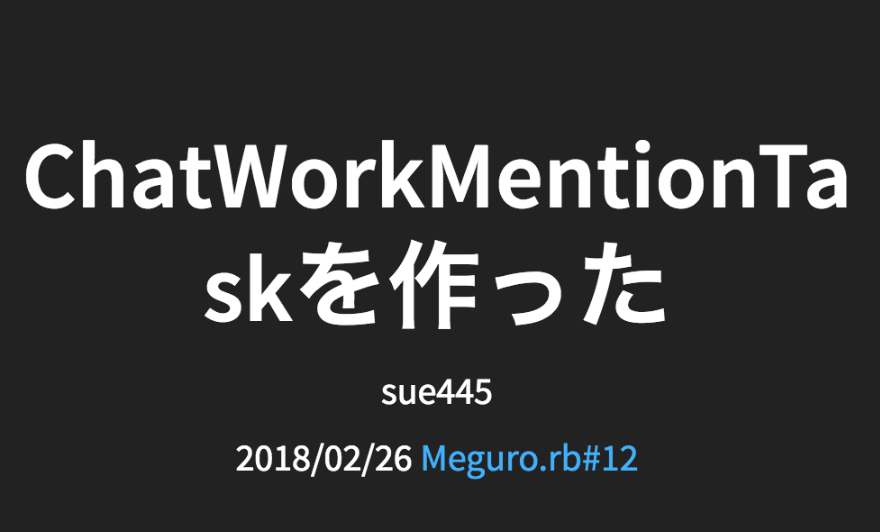
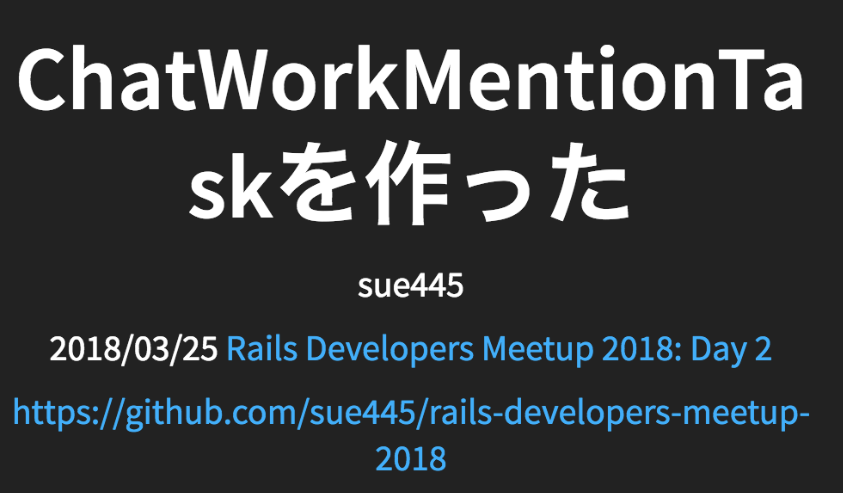
Update info and slide

Changed region(s): [[0.0, 0.0913, 0.987, 0.6389], [0.0, 0.7911, 0.9561, 0.9736], [0.0617, 0.6694, 0.9253, 0.7606]]

diff --git a/docs/index.html b/docs/index.html
@@ -3,7 +3,7 @@
   <head prefix="og: http://ogp.me/ns# fb: http://ogp.me/ns/fb# article: http://ogp.me/ns/article#">
     <meta charset="utf-8">
 
-<title>ChatWorkMentionTaskを作った #megurorb</title>
+<title>ChatWorkMentionTaskを作った #railsdm #rdm2018A</title>
 
 <meta name="description" content="">
 <meta name="author" content="sue445">
@@ -11,17 +11,17 @@
 
 <meta property="og:locale" content="ja_JP" />
 <meta property="og:type" content="website" />
-<meta property="og:title" content="ChatWorkMentionTaskを作った #megurorb" />
-<meta property="og:description" content="Meguro.rb#12 2018/02/26(Mon.) の発表資料です" />
-<meta property="og:url" content="https://sue445.github.io/megurorb-12/#/" />
-<meta property="og:image" content="https://sue445.github.io/megurorb-12/images/cover.png" />
+<meta property="og:title" content="ChatWorkMentionTaskを作った #railsdm #rdm2018A" />
+<meta property="og:description" content="Rails Developers Meetup 2018: Day 2の発表資料です" />
+<meta property="og:url" content="https://sue445.github.io/rails-developers-meetup-2018/#/" />
+<meta property="og:image" content="https://sue445.github.io/rails-developers-meetup-2018/images/cover.png" />
 
 <meta name="twitter:card" content="Summary" />
 <meta name="twitter:site" content="@sue445" />
 <meta name="twitter:creator" content="@sue445" />
-<meta name="twitter:title" content="ChatWorkMentionTaskを作った #megurorb" />
-<meta name="twitter:description" content="Meguro.rb#12 2018/02/26(Mon.) の発表資料です" />
-<meta name="twitter:image" content="https://sue445.github.io/megurorb-12/images/cover.png" />
+<meta name="twitter:title" content="ChatWorkMentionTaskを作った #railsdm #rdm2018A" />
+<meta name="twitter:description" content="Rails Developers Meetup 2018: Day 2の発表資料です" />
+<meta name="twitter:image" content="https://sue445.github.io/rails-developers-meetup-2018/images/cover.png" />
 
 <meta name="apple-mobile-web-app-capable" content="yes" />
 <meta name="apple-mobile-web-app-status-bar-style" content="black-translucent" />
@@ -62,9 +62,9 @@
 <h1>ChatWorkMentionTaskを作った</h1>
 <p>sue445</p>
 
-<p>2018/02/26 <a href="https://megurorb.connpass.com/event/78332/">Meguro.rb#12</a></p>
+<p>2018/03/25 <a href="https://techplay.jp/event/655769">Rails Developers Meetup 2018: Day 2</a></p>
 
-<p><a href="https://github.com/sue445/megurorb-12">https://github.com/sue445/megurorb-12</a></p>
+<p><a href="https://github.com/sue445/rails-developers-meetup-2018">https://github.com/sue445/rails-developers-meetup-2018</a></p>
 
 </section>
 <section>
@@ -113,7 +113,7 @@
 
 <h3>所感</h3>
 <ul>
-  <li>半月くらい人柱運用してるけど日々の仕事がむっちゃ捗ってる！！！</li>
+  <li>1ヶ月くらい人柱運用してるけど日々の仕事がむっちゃ捗ってる！！！</li>
   <li>ぶっちゃげChatWork本体に欲しい機能なんだが、<a href="http://feedback-ja.chatwork.com/forums/269086-chatwork-%E3%81%94%E6%84%8F%E8%A6%8B-%E3%81%94%E8%A6%81%E6%9C%9B%E3%83%95%E3%82%A9%E3%83%BC%E3%83%A9%E3%83%A0/suggestions/7575039-to%E4%B8%80%E8%A6%A7%E6%A9%9F%E8%83%BD">3年前から要望は出ている</a> がいまだに実装されていないので諦めて自分で作った</li>
 </ul>
 
@@ -126,7 +126,7 @@
   <li>ChatWork以外はいつものやつ
     <ul>
       <li>Ruby 2.5.0</li>
-      <li>Rails 5.2.0.rc1</li>
+      <li>Rails 5.2.0.rc2</li>
       <li>Bootstrap 4.0.0</li>
       <li>ChatWork (API, OAuth, Webhook)</li>
     </ul>
@@ -164,6 +164,13 @@
 <p><img src="images/commit_ec3e2583044e2c132ef1de9ef0c656f1e74dcac1.png" alt="commit_ec3e2583044e2c132ef1de9ef0c656f1e74dcac1"></p>
 
 <p><a href="https://github.com/sue445/chatwork_mention_task/commit/ec3e2583044e2c132ef1de9ef0c656f1e74dcac1">https://github.com/sue445/chatwork_mention_task/commit/ec3e2583044e2c132ef1de9ef0c656f1e74dcac1</a></p>
+
+</section>
+<section>
+
+<p>Deploy to Herokuボタンに対応してるので、HerokuのアカウントとChatWorkのOAuth Clientさえあればワンクリックでデプロイできる</p>
+
+<p><img src="images/chatwork_mention_task_heroku_deploy.png" alt="chatwork_mention_task_heroku_deploy"></p>
 
 </section>
 <section>
@@ -328,12 +335,12 @@ end
 <p>常に最新のheroku/cliをDockerイメージで使いたかったので、heroku/cliの更新を自動検知してDockerイメージを自動ビルドする仕組を作った</p>
 
 <ol>
-  <li>CircleCIのスケジューラが週1で起動</li>
+  <li>CircleCIのスケジューラが1日1回起動</li>
   <li>heroku cliのバージョンが上がっていればCircleCIがファイルをコミットしてGitHubにpush</li>
   <li>GitHubにpushされればDocker Hubの <a href="https://docs.docker.com/docker-hub/github/">automated builds</a> でビルドがされる</li>
 </ol>
 
-<p><a href="https://github.com/sue445/dockerfile-heroku-cli/blob/fd4517b1b252e182d7b318fed74fe95fbe79e782/.circleci/config.yml#L64-L79">https://github.com/sue445/dockerfile-heroku-cli/blob/fd4517b1b252e182d7b318fed74fe95fbe79e782/.circleci/config.yml#L64-L79</a></p>
+<p><a href="https://github.com/sue445/dockerfile-heroku-cli/blob/36e2441df5664baeb3ed97bd02386490d38355df/.circleci/config.yml#L72-L79">https://github.com/sue445/dockerfile-heroku-cli/blob/36e2441df5664baeb3ed97bd02386490d38355df/.circleci/config.yml#L72-L79</a></p>
 
 </section>
 <section>
@@ -342,7 +349,7 @@ end
 </h3>
 <ul>
   <li><a href="https://github.com/sue445/dockerhub-slack-webhook">https://github.com/sue445/dockerhub-slack-webhook</a></li>
-  <li>Docker Hubでビルドした後にSlackに通知するためのwebhook</li>
+  <li>Docker Hubでビルドした後にSlackに通知するためのSinatra製のwebhook</li>
   <li>ビルドしたイメージがいつビルド終わるか分からないので、Slackに手軽に通知できるようにしたかった</li>
 </ul>
 
@@ -352,7 +359,7 @@ end
 <section>
 
 <h4>頑張ったこと</h4>
-<p>Deploy to Herokuボタンに対応してるので、Herokuのアカウントさえあればワンクリックでデプロイできる</p>
+<p>Deploy to Herokuボタンに対応してるので、HerokuのアカウントとSlackのwebhookさえあればワンクリックでデプロイできる</p>
 
 <p><img src="images/dockerhub-slack-webhook_usage.png" alt="dockerhub-slack-webhook_usage"></p>
 

diff --git a/docs/slides.html b/docs/slides.html
@@ -3,9 +3,9 @@
 <h1>ChatWorkMentionTaskを作った</h1>
 <p>sue445</p>
 
-<p>2018/02/26 <a href="https://megurorb.connpass.com/event/78332/">Meguro.rb#12</a></p>
+<p>2018/03/25 <a href="https://techplay.jp/event/655769">Rails Developers Meetup 2018: Day 2</a></p>
 
-<p><a href="https://github.com/sue445/megurorb-12">https://github.com/sue445/megurorb-12</a></p>
+<p><a href="https://github.com/sue445/rails-developers-meetup-2018">https://github.com/sue445/rails-developers-meetup-2018</a></p>
 
 </section>
 <section>
@@ -54,7 +54,7 @@
 
 <h3>所感</h3>
 <ul>
-  <li>半月くらい人柱運用してるけど日々の仕事がむっちゃ捗ってる！！！</li>
+  <li>1ヶ月くらい人柱運用してるけど日々の仕事がむっちゃ捗ってる！！！</li>
   <li>ぶっちゃげChatWork本体に欲しい機能なんだが、<a href="http://feedback-ja.chatwork.com/forums/269086-chatwork-%E3%81%94%E6%84%8F%E8%A6%8B-%E3%81%94%E8%A6%81%E6%9C%9B%E3%83%95%E3%82%A9%E3%83%BC%E3%83%A9%E3%83%A0/suggestions/7575039-to%E4%B8%80%E8%A6%A7%E6%A9%9F%E8%83%BD">3年前から要望は出ている</a> がいまだに実装されていないので諦めて自分で作った</li>
 </ul>
 
@@ -67,7 +67,7 @@
   <li>ChatWork以外はいつものやつ
     <ul>
       <li>Ruby 2.5.0</li>
-      <li>Rails 5.2.0.rc1</li>
+      <li>Rails 5.2.0.rc2</li>
       <li>Bootstrap 4.0.0</li>
       <li>ChatWork (API, OAuth, Webhook)</li>
     </ul>
@@ -105,6 +105,13 @@
 <p><img src="images/commit_ec3e2583044e2c132ef1de9ef0c656f1e74dcac1.png" alt="commit_ec3e2583044e2c132ef1de9ef0c656f1e74dcac1"></p>
 
 <p><a href="https://github.com/sue445/chatwork_mention_task/commit/ec3e2583044e2c132ef1de9ef0c656f1e74dcac1">https://github.com/sue445/chatwork_mention_task/commit/ec3e2583044e2c132ef1de9ef0c656f1e74dcac1</a></p>
+
+</section>
+<section>
+
+<p>Deploy to Herokuボタンに対応してるので、HerokuのアカウントとChatWorkのOAuth Clientさえあればワンクリックでデプロイできる</p>
+
+<p><img src="images/chatwork_mention_task_heroku_deploy.png" alt="chatwork_mention_task_heroku_deploy"></p>
 
 </section>
 <section>
@@ -269,12 +276,12 @@ end
 <p>常に最新のheroku/cliをDockerイメージで使いたかったので、heroku/cliの更新を自動検知してDockerイメージを自動ビルドする仕組を作った</p>
 
 <ol>
-  <li>CircleCIのスケジューラが週1で起動</li>
+  <li>CircleCIのスケジューラが1日1回起動</li>
   <li>heroku cliのバージョンが上がっていればCircleCIがファイルをコミットしてGitHubにpush</li>
   <li>GitHubにpushされればDocker Hubの <a href="https://docs.docker.com/docker-hub/github/">automated builds</a> でビルドがされる</li>
 </ol>
 
-<p><a href="https://github.com/sue445/dockerfile-heroku-cli/blob/fd4517b1b252e182d7b318fed74fe95fbe79e782/.circleci/config.yml#L64-L79">https://github.com/sue445/dockerfile-heroku-cli/blob/fd4517b1b252e182d7b318fed74fe95fbe79e782/.circleci/config.yml#L64-L79</a></p>
+<p><a href="https://github.com/sue445/dockerfile-heroku-cli/blob/36e2441df5664baeb3ed97bd02386490d38355df/.circleci/config.yml#L72-L79">https://github.com/sue445/dockerfile-heroku-cli/blob/36e2441df5664baeb3ed97bd02386490d38355df/.circleci/config.yml#L72-L79</a></p>
 
 </section>
 <section>
@@ -283,7 +290,7 @@ end
 </h3>
 <ul>
   <li><a href="https://github.com/sue445/dockerhub-slack-webhook">https://github.com/sue445/dockerhub-slack-webhook</a></li>
-  <li>Docker Hubでビルドした後にSlackに通知するためのwebhook</li>
+  <li>Docker Hubでビルドした後にSlackに通知するためのSinatra製のwebhook</li>
   <li>ビルドしたイメージがいつビルド終わるか分からないので、Slackに手軽に通知できるようにしたかった</li>
 </ul>
 
@@ -293,7 +300,7 @@ end
 <section>
 
 <h4>頑張ったこと</h4>
-<p>Deploy to Herokuボタンに対応してるので、Herokuのアカウントさえあればワンクリックでデプロイできる</p>
+<p>Deploy to Herokuボタンに対応してるので、HerokuのアカウントとSlackのwebhookさえあればワンクリックでデプロイできる</p>
 
 <p><img src="images/dockerhub-slack-webhook_usage.png" alt="dockerhub-slack-webhook_usage"></p>
 

diff --git a/css/slides.css b/css/slides.css
@@ -13,3 +13,7 @@
 .reveal section img {
   border: none;
 }
+
+.reveal section img.emoji {
+  height: 1em;
+}

diff --git a/docs/css/slides.css b/docs/css/slides.css
@@ -13,3 +13,7 @@
 .reveal section img {
   border: none;
 }
+
+.reveal section img.emoji {
+  height: 1em;
+}

diff --git a/README.md b/README.md
@@ -1,8 +1,8 @@
-# ChatWorkMentionTaskを作った #megurorb
+# ChatWorkMentionTaskを作った #railsdm #rdm2018A
 
-[Meguro.rb#12 2018/02/26(Mon.)](https://megurorb.connpass.com/event/78332/) の発表資料です
+[Rails Developers Meetup 2018: Day 2](https://techplay.jp/event/655769) の発表資料です
 
-* html版：https://sue445.github.io/megurorb-12/#/ [![hatebu](http://b.hatena.ne.jp/entry/image/https://sue445.github.io/megurorb-12/%23/)](http://b.hatena.ne.jp/entry/https://sue445.github.io/megurorb-12/%23/)
+* html版：https://sue445.github.io/rails-developers-meetup-2018/#/ [![hatebu](http://b.hatena.ne.jp/entry/image/https://sue445.github.io/rails-developers-meetup-2018/%23/)](http://b.hatena.ne.jp/entry/https://sue445.github.io/rails-developers-meetup-2018/%23/)
 * markdown版：[slides.md](slides.md)
 
 ## Development
